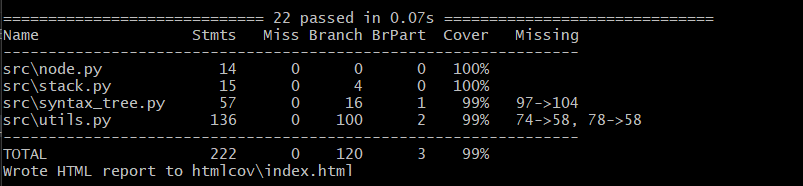
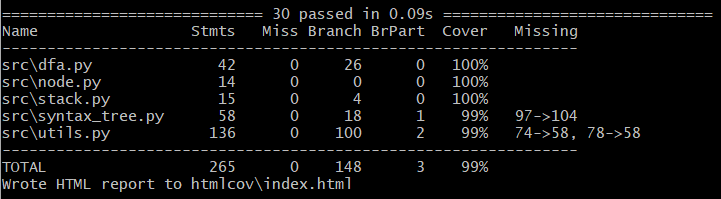
Update Testausdokumentti.md

Changed region(s): [[0.0, 0.0269, 1.0, 0.9677], [0.6408, 0.8065, 0.7018, 0.8871]]

diff --git a/dokumentaatio/Testausdokumentti.md b/dokumentaatio/Testausdokumentti.md
@@ -6,7 +6,7 @@
 Yksikkötestauksessa käytetään Unittest-kehystä. Yksikkötestit suoritetaan Compiler/src hakemiston koodille. Käyttölittymään liittyvä koodi jätetään yksikkötestauksen ulkopuolelle, koska se ei ole olennainen varsinaisen ohjelmalogiikan kannalta.
 
 
-Automaattisilla testeillä testataan tässä vaiheessa (12.11.2025) eritysesti SyntaxTree-luokan toimintaa oikeanmuotoisilla syötteillä. Näissä testeissä on pyritty erilaisia operaatioita ja sulkulausekkeita sisältävin syöttein varmistamaan, että ohjelma rakentaa syntaksi puun oikein. Lisäksi tässä vaiheessa testataan, että käyttäjän antaman syötteen validointi sekä sen muuttaminen infix-muotoon toimii oikein. Testauksessa käytetyt syötteet on pyritty valitsemaan siten, että erilaiset väärää muotoa olevat syötteet ovat edustettuina mahdollisimman kattavasti.
+Automaattisilla testeillä testataan tässä vaiheessa (18.11.2025) eritysesti SyntaxTree-luokan toimintaa oikeanmuotoisilla syötteillä sekä DFA-luokan toimintaa erilaisilla säännöllisillä lausekkeilla. Näissä testeissä on pyritty erilaisia operaatioita ja sulkulausekkeita sisältävin syöttein varmistamaan, että ohjelma rakentaa syntaksipuun sekä dfa:n oikein. Lisäksi tässä vaiheessa testataan, että käyttäjän antaman syötteen validointi sekä sen muuttaminen infix-muotoon toimii oikein. Testauksessa käytetyt syötteet on pyritty valitsemaan siten, että erilaiset väärää muotoa olevat syötteet ovat edustettuina mahdollisimman kattavasti.
 
 Testit voidaan ajaa testikattavuusraportin kera Compiler kansiossa komennolla
 
@@ -17,11 +17,11 @@ poetry run invoke coverage
 
 ### Testikattavuusraportti
 
-Automaattisia testejä on 22 kappaletta. Testien haarautumakattavuus on 99%.
+Automaattisia testejä on 30 kappaletta. Testien haarautumakattavuus on 99%.
 
 ![Testikattavuusraportti](https://github.com/Kaabero/regular_expression_to_DFA/blob/main/dokumentaatio/kuvat/Testikattavuusraportti.png)
 
-Testikattavuusraportti ajettu 12.11.2025
+Testikattavuusraportti ajettu 18.11.2025
 
 ### Testitapaukset
 
@@ -44,6 +44,18 @@ Testikattavuusraportti ajettu 12.11.2025
     - Solmuilla, joiden merkki on aakkoston symboli, ei ole lapsia
     - Ekvivalentit säännölliset lausekkeet tuottavat samanlaisen syntaksipuun
     - Solmujen nullable, firstpos, lastpos ja followpos arvot asettuvat oikein
+
+- Testattu, että ohjelma rakentaa syntaksipuun perusteella dfa:n oikein: 
+    - Kun syötteenä on tyhjä merkki
+    - Kun syötteenä on tyhjän merkin sisältävä lauseke
+    - Kun syötteenä on lauseke, joka sisältää tähti, konkatenaatio ja union operaatiot
+    - Kun syötteenä on vain yksi aakkostoon kuuluva merkki
+    - Kun syötteenä on yksi aakkostoon kuuluva merkki sekä tähti operaattori
+    - Kun syötteenä on säännöllinen lauseke, joka hyväksyy ne aakkoston {0, 1} parillisen mittaiset merkkijonot jotka päättyvät merkkiin 0 ja parittoman mittaiset merkkijonot, jotka päättyvät merkkiin 1.
+    - Kun syötteenä on säännöllinen lauseke, joka hyväksyy ne aakkoston {a, b, c} merkkijonot, joissa ei esiinny osamerkkijonoa ab eikä ba.
+    - Kun syötteenä on säännöllinen lauseke, joka hyväksyy ne aakkoston {0, 1, 2} merkkijonot, jotka eivät ala merkillä 0 ja joissa on pariton määrä merkkejä 1.
+    
+
 
    
 
